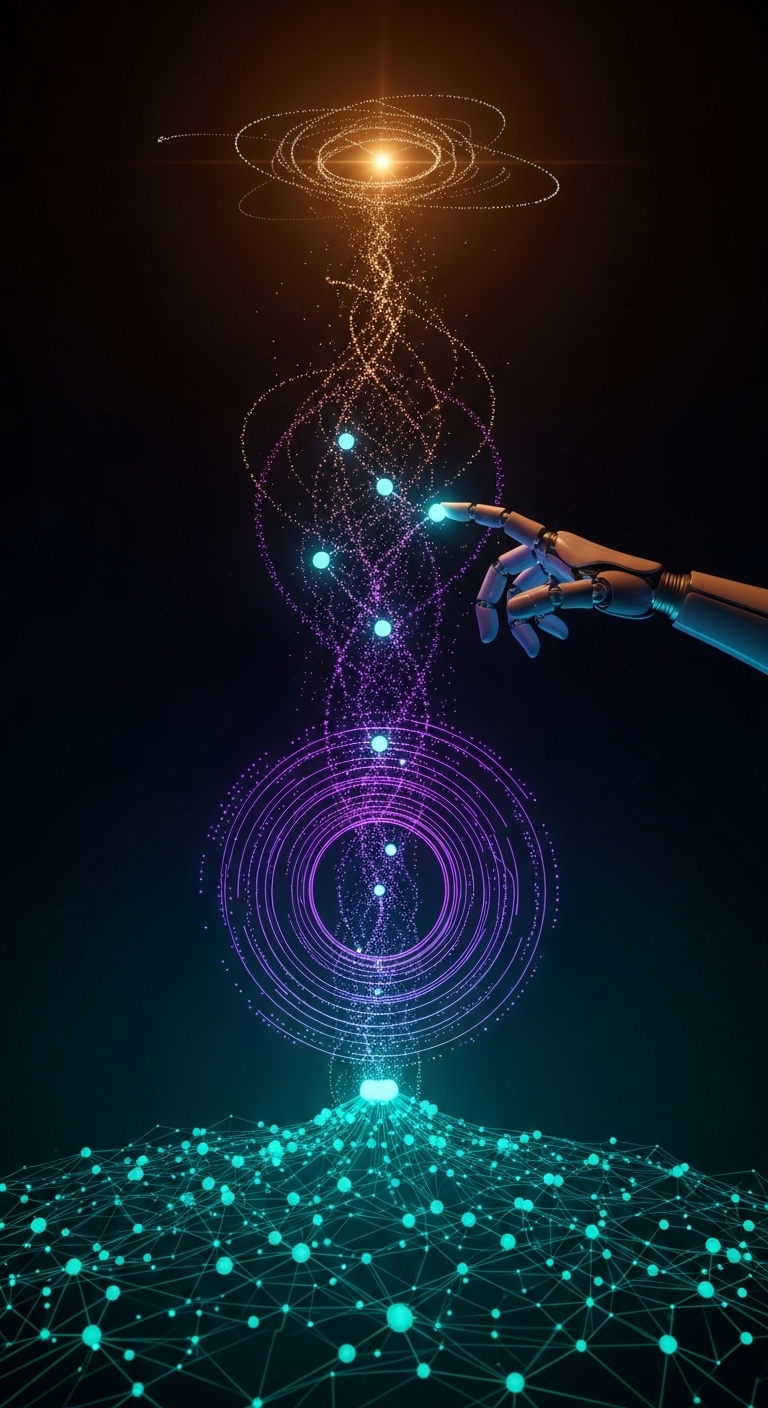
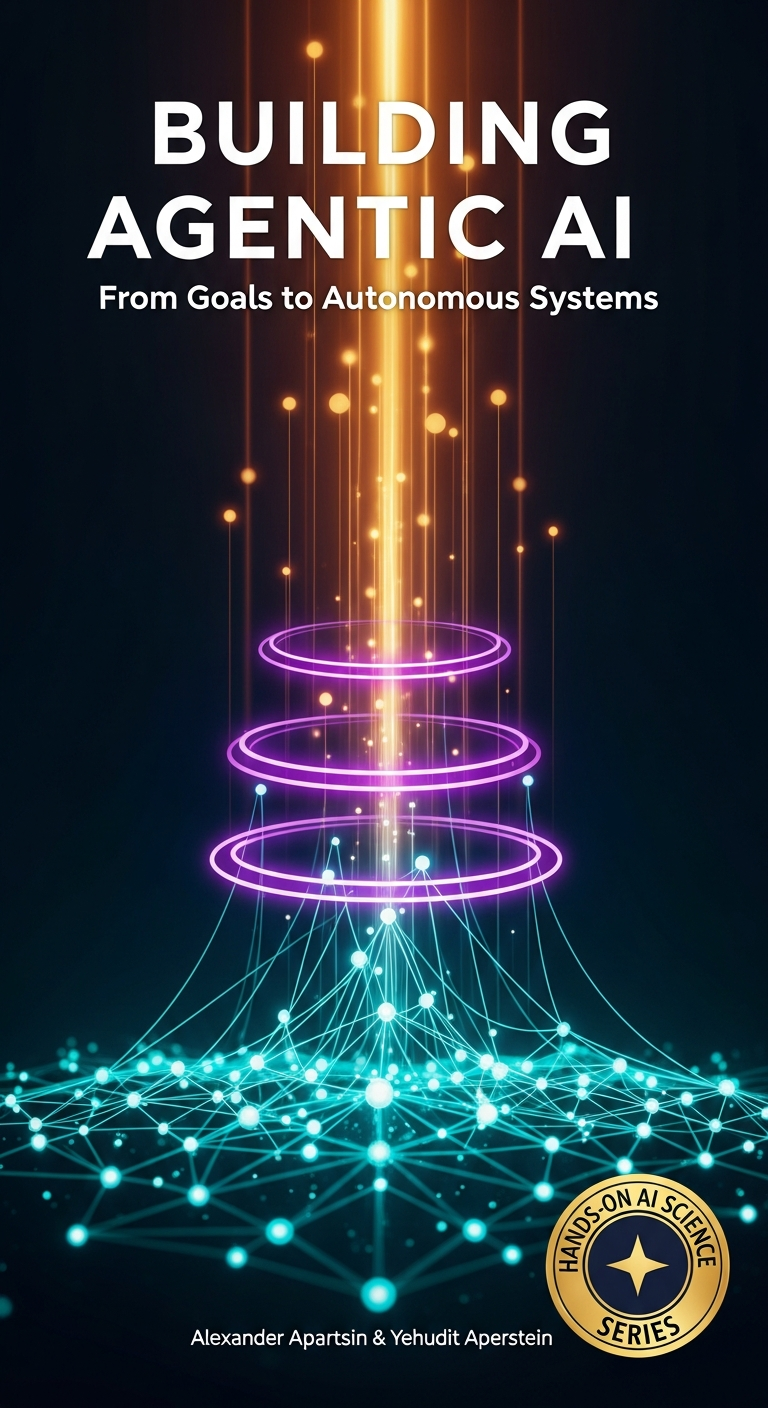
Match VisionAI series style: new cover with badge, fix series section
- Regenerate book-cover.jpg with Imagen 4 Ultra: title/subtitle text,
  teal→violet→amber abstract artwork, gold circular Hands-On AI Science
  Series badge bottom-right, author names at bottom
- Fix series section: "seven" → "four", add Temporal AI Kindle link
- Fix series-here color: per-part rules (part-4 = amber #e07860)
- Update OG URLs to agenticbook.apartsin.com
- Update cover img alt text to reflect new cover contents

diff --git a/index.html b/index.html
@@ -7,8 +7,8 @@
 <title>Building Agentic AI: From Goals to Autonomous Systems</title>
 <meta content="Building Agentic AI: From Goals to Autonomous Systems" property="og:title"/>
 <meta content="Deep theory and production code for agent foundations, reinforcement learning, LLM agents, multi-agent systems, and autonomous deployment." property="og:description"/>
-<meta content="https://agentic.apartsin.com/images/book-cover.jpg" property="og:image"/>
-<meta content="https://agentic.apartsin.com/" property="og:url"/>
+<meta content="https://agenticbook.apartsin.com/images/book-cover.jpg" property="og:image"/>
+<meta content="https://agenticbook.apartsin.com/" property="og:url"/>
 <meta content="book" property="og:type"/>
 <meta content="summary_large_image" name="twitter:card"/>
 <link href="styles/book.css" rel="stylesheet"/>
@@ -371,8 +371,12 @@ body.cover-page .series-card .series-here {
     font-weight: 700;
     text-transform: uppercase;
     letter-spacing: 0.14em;
-    color: #a064f0;
+    color: rgba(150, 200, 235, 0.8);
 }
+body.cover-page .series-card.part-1 .series-here { color: #50c8b4; }
+body.cover-page .series-card.part-2 .series-here { color: #d9c46a; }
+body.cover-page .series-card.part-3 .series-here { color: #a064f0; }
+body.cover-page .series-card.part-4 .series-here { color: #e07860; }
 body.cover-page .series-cta {
     text-align: center;
     margin-top: 1.6rem;
@@ -460,7 +464,7 @@ body.cover-page footer.cover-footer a:hover { color: #aedcf5; }
 
 <header class="hero">
 <span class="edition-pill">First Edition &#183; 2026</span>
-<div class="cover-image-wrapper"><img alt="Book cover: a teal node network at the base rises through violet concentric rings representing the agent loop, with a robotic hand at the nexus and particle streams ascending to a warm amber radiant point at the apex" class="cover-image" height="2560" src="images/book-cover.jpg" width="1600"/></div>
+<div class="cover-image-wrapper"><img alt="Book cover: title Building Agentic AI above a teal node network rising through violet concentric rings to an amber radiant apex, with the Hands-On AI Science Series gold badge bottom-right and author names at the bottom" class="cover-image" height="2560" src="images/book-cover.jpg" width="1600"/></div>
 <h1 class="cover-title">Building Agentic AI
 <span class="title-arc">From Goals to Autonomous Systems</span></h1>
 <p class="cover-subtitle">Deep theory and production code for agent foundations, reinforcement learning, LLM agents, multi-agent systems, and autonomous deployment.</p>
@@ -559,7 +563,7 @@ body.cover-page footer.cover-footer a:hover { color: #aedcf5; }
 
 <section aria-labelledby="series-heading" class="series-section">
 <h2 class="cover-section-title" id="series-heading">The Hands-On AI Science Series</h2>
-<p class="cover-section-sub">Building Agentic AI is one of seven connected books, each a deep, build-it-yourself guide to a major field of AI.</p>
+<p class="cover-section-sub">Building Agentic AI is one of four connected books, each a deep, build-it-yourself guide to a major field of AI.</p>
 <p class="cover-promise" style="margin-top:0;">Hands-On AI Science is a series of in-depth guides to the major fields of artificial intelligence. Every book goes deep into the theory, models, and internals, covering the classical foundations and the most recent ideas, then shows you how to build each one in Python with the modern libraries and tools that get the job done. The writing stays plain and light (illustrations, analogies, mental models, worked examples, and a little fun) without trading away rigor or coverage. Each volume is self-contained and complete enough to anchor a full course on its subject.</p>
 <div class="part-grid">
 
@@ -578,7 +582,7 @@ body.cover-page footer.cover-footer a:hover { color: #aedcf5; }
 <div class="part-card series-card part-3">
 <h3>Building Temporal AI</h3>
 <p class="series-arc">From Forecasting to Sequential Decision Making.</p>
-<span class="series-links"><a href="https://temporalbook.apartsin.com" rel="noopener" target="_blank">Read online</a></span>
+<span class="series-links"><a href="https://temporalbook.apartsin.com" rel="noopener" target="_blank">Read online</a> &#183; <a href="https://www.amazon.com/dp/B0H5KRJFCD" rel="noopener" target="_blank">Kindle</a></span>
 </div>
 
 <div class="part-card series-card part-4">